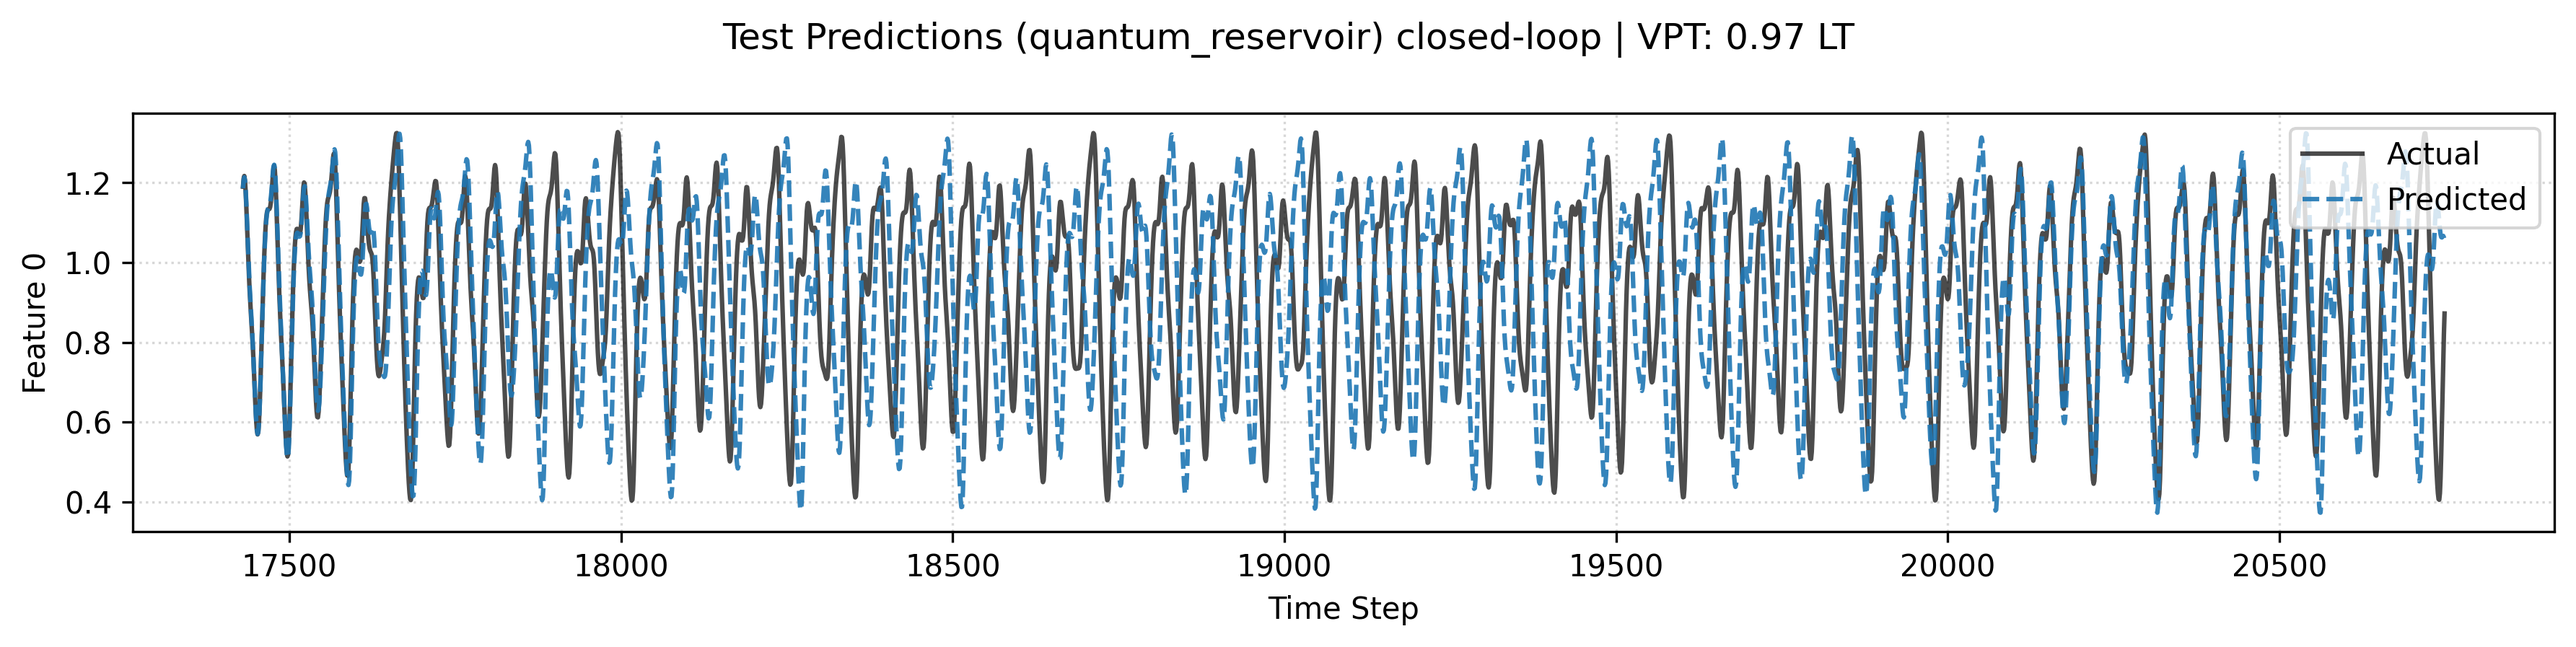
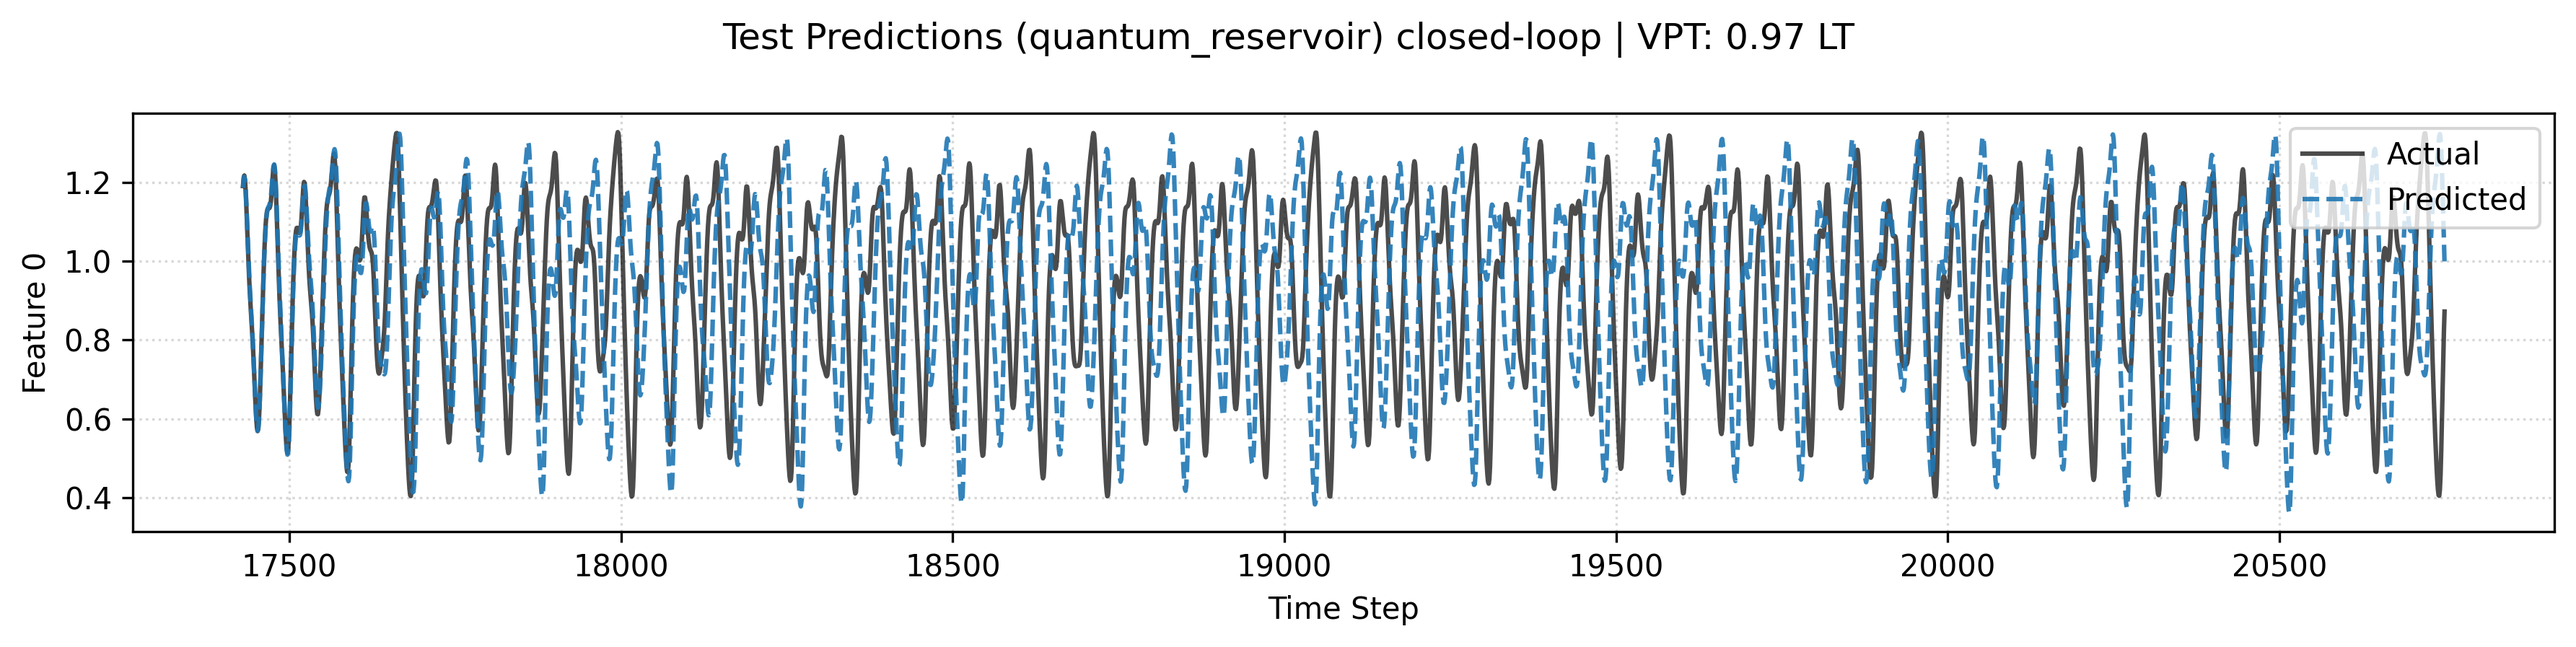
multi seed MG

diff --git a/src/reservoir/models/presets.py b/src/reservoir/models/presets.py
@@ -412,13 +412,7 @@ WINDOWED_FNN_PRESET = PipelineConfig(
 
 
 # --------------------------------------------------------------------------
-# fb > 2
-# delta, fs, lr = 0.029014891695261672, 2.3162433911393165, 0.829880311841115 #5_42 7.418181818181818
-# delta, fs, lr = 0.0552541001499716, 2.6803338998884767, 0.4707800087677259 #5_42 7.5 unstable
-
-# fb<2
-# q5 100 trials
-delta, fs, lr = 0.04531012160886314, 0.06881757656255799, 0.8558424190253158
+scale, rs, f, lr = 0.03811568272497027, 0.039626056938894795, 2.3536203916302614, 0.17091909220487084 #q10 mg
 
 
 '''
@@ -428,14 +422,18 @@ TIME_QUANTUM_RESERVOIR_PRESET = PipelineConfig(
     name="quantum_reservoir",
     model_type=Model.QUANTUM_RESERVOIR,
     description="Quantum Gate-Based Reservoir Computing (Time Series)",
-    preprocess=MinMaxScalerConfig(feature_min=-9.735743764947846e-05, feature_max=delta),
+    preprocess=BoundedAffineScalerConfig(
+        scale=scale,
+        relative_shift=rs,
+        bound=np.pi,
+    ),
     projection=None, # No projection — MinMaxScaler output goes directly to R-gate
     model=QuantumReservoirConfig(
         n_qubits=10,
         n_layers=1,
-        seed=41,
+        seed=44,
         aggregation=AggregationMode.SEQUENCE,
-        feedback_scale=fs,    # a_fb: R gate feedback scaling (paper default)
+        feedback_scale=f,    # a_fb: R gate feedback scaling (paper default)
         leak_rate=lr,         # Leaky integrator rate (tunable by optimizer)
         measurement_basis="Z+ZZ",
         noise_type="clean",
